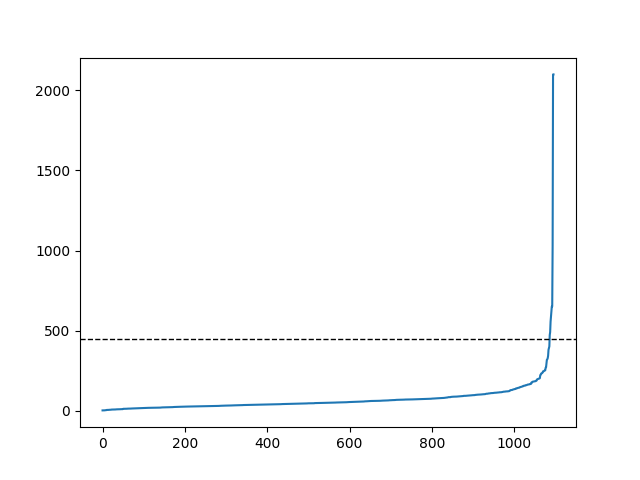
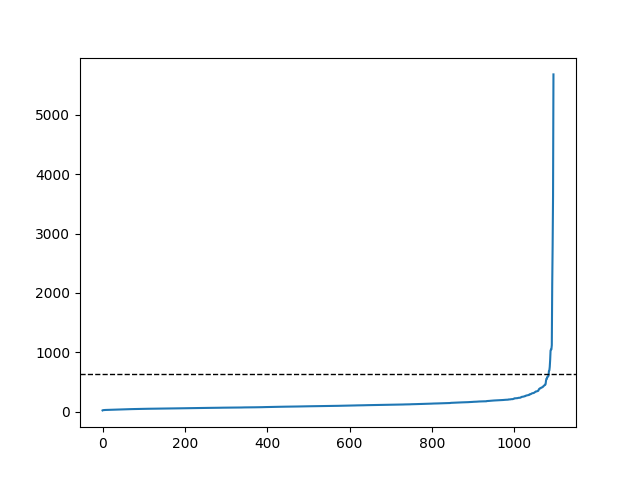
kalhnyxta

diff --git a/demand_prediction.py b/demand_prediction.py
@@ -12,58 +12,13 @@ np.random.seed(7)
 
 outliers = [
     "2019-01-02",
-    "2019-03-10",
-    "2019-03-13",
     "2019-03-26",
-    "2019-05-27",
-    "2019-06-11",
-    "2019-07-23",
-    "2019-07-24",
-    "2019-07-25",
-    "2019-07-26",
-    "2019-08-14",
-    "2019-08-15",
-    "2019-08-26",
-    "2019-08-27",
-    "2019-09-03",
-    "2019-09-04",
-    "2019-09-05",
-    "2019-09-06",
-    "2020-03-29",
-    "2020-04-11",
-    "2020-04-12",
-    "2020-04-19",
-    "2020-08-13",
     "2020-08-14",
     "2020-08-15",
-    "2020-08-16",
     "2020-08-17",
     "2020-08-18",
     "2020-08-19",
-    "2020-08-20",
-    "2020-08-21",
-    "2020-08-22",
-    "2020-08-24",
-    "2020-08-25",
-    "2020-09-05",
-    "2020-09-06",
-    "2020-09-07",
-    "2021-06-18",
-    "2021-07-09",
-    "2021-07-19",
-    "2021-07-20",
-    "2021-07-21",
-    "2021-07-29",
-    "2021-08-11",
-    "2021-08-12",
-    "2021-08-16",
-    "2021-09-08",
-    "2021-09-09",
-    "2021-12-14",
-    "2021-12-24",
-    "2021-12-25",
-    "2021-12-26",
-    "2021-12-30"
+    "2020-09-06"
 ]
 
 
@@ -82,18 +37,17 @@ def create_dataset(dataset, look_back=1):
 def read_dataset():
     df_demand = pd.read_csv("unified.csv")
     df_sources = pd.read_csv("summedSources.csv")
-    df_demand.drop('Supply', axis=1)
-    df_demand.drop('Datetime', axis=1)
+    df_demand.drop('Supply', axis=1, inplace=True)
+    df_demand.drop('Datetime', axis=1, inplace=True)
     df = df_sources.join(df_demand)
     df['Demand-Renewable'] = df['Demand'] - df['Renewable']
-    # df = df.iloc[:110000, :]
     df = df.dropna()
 
     for i in outliers:
         curIndex = df.loc[df['datetime'] == f'{i} 00:00:00'].index
         print(curIndex)
         for j in range(288):
-            df.drop(curIndex + j)
+            df.drop(index=(curIndex + j), axis=0, inplace=True)
     return df
 
 

diff --git a/clustering.py b/clustering.py
@@ -15,7 +15,7 @@ import matplotlib.pyplot as plt
 def tuneParams(X):
 
     # Defining the list of hyperparameters to try
-    eps_list = np.arange(start=400, stop=450, step=1)
+    eps_list = np.arange(start=550, stop=650, step=1)
     min_sample_list = np.arange(start=2, stop=20, step=1)
 
     # Creating empty data frame to store the silhouette scores for each trials
@@ -66,7 +66,6 @@ def create_dataset():
 
 
 def our_dbscan(X, title):
-    # print(X)
     newX = X['Demand'].values
     newY = X['Supply'].values
     print(newX)
@@ -77,8 +76,6 @@ def our_dbscan(X, title):
     print(X)
     X = np.array(temp)
     print(X)
-    # tsne = TSNE(random_state=1)
-    # X = tsne.fit_transform(X)
     eps, min_samples, silhouette_score = tuneParams(X)
     nbrs = NearestNeighbors(n_neighbors=min_samples).fit(X)
 
@@ -86,7 +83,7 @@ def our_dbscan(X, title):
 
     sort_neight_dist = np.sort(neist_dist, axis=0)
 
-    k_dist = sort_neight_dist[:, 1]
+    k_dist = sort_neight_dist[:, 3]
     plt.figure()
     plt.plot(k_dist)
     plt.axhline(y=eps, linewidth=1, linestyle='dashed', color='k')
@@ -152,4 +149,4 @@ for i, label in enumerate(db.labels_):
     if label == -1:
         outIndex.append(i)
 for i in outIndex:
-    print(df.iloc[i])
+    print(i)

diff --git a/all_days.py b/all_days.py
@@ -64,7 +64,8 @@ def unifyData():
                 currentDemand = pd.read_csv(
                     demand[i], usecols=['Time', 'Current demand'])
 
-                currentSupply = pd.read_csv(supply[i]).drop(["Time"], axis=1)
+                currentSupply = pd.read_csv(
+                    supply[i]).drop(labels=["Time"], axis=1)
                 currentSupply = currentSupply.replace(
                     '', np.nan).astype(np.float64).fillna(value=0.0)
                 unified = pd.DataFrame(
